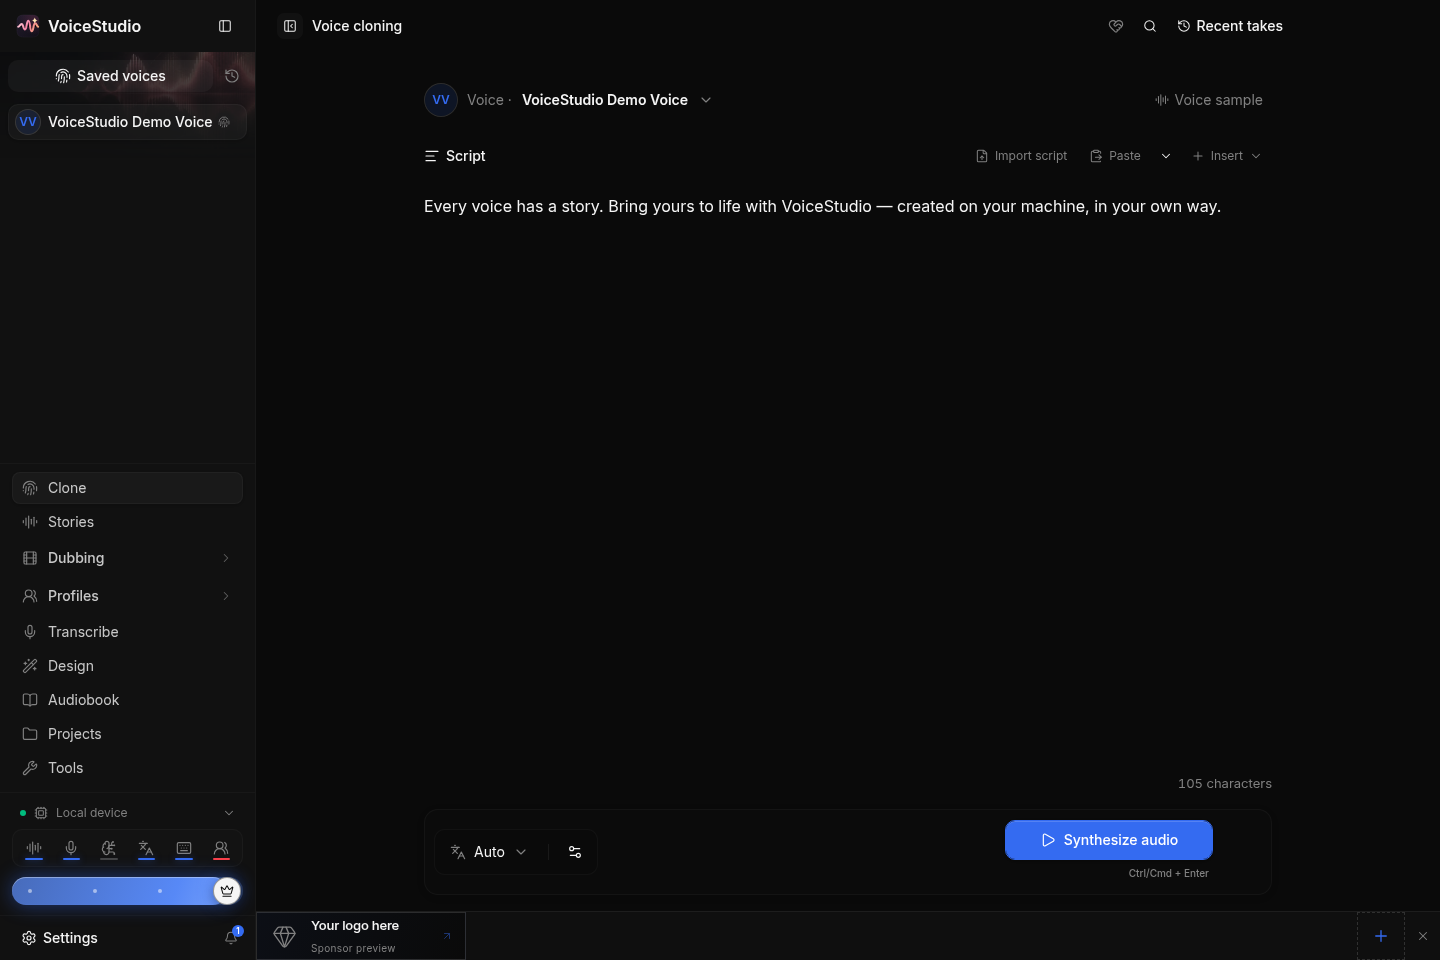
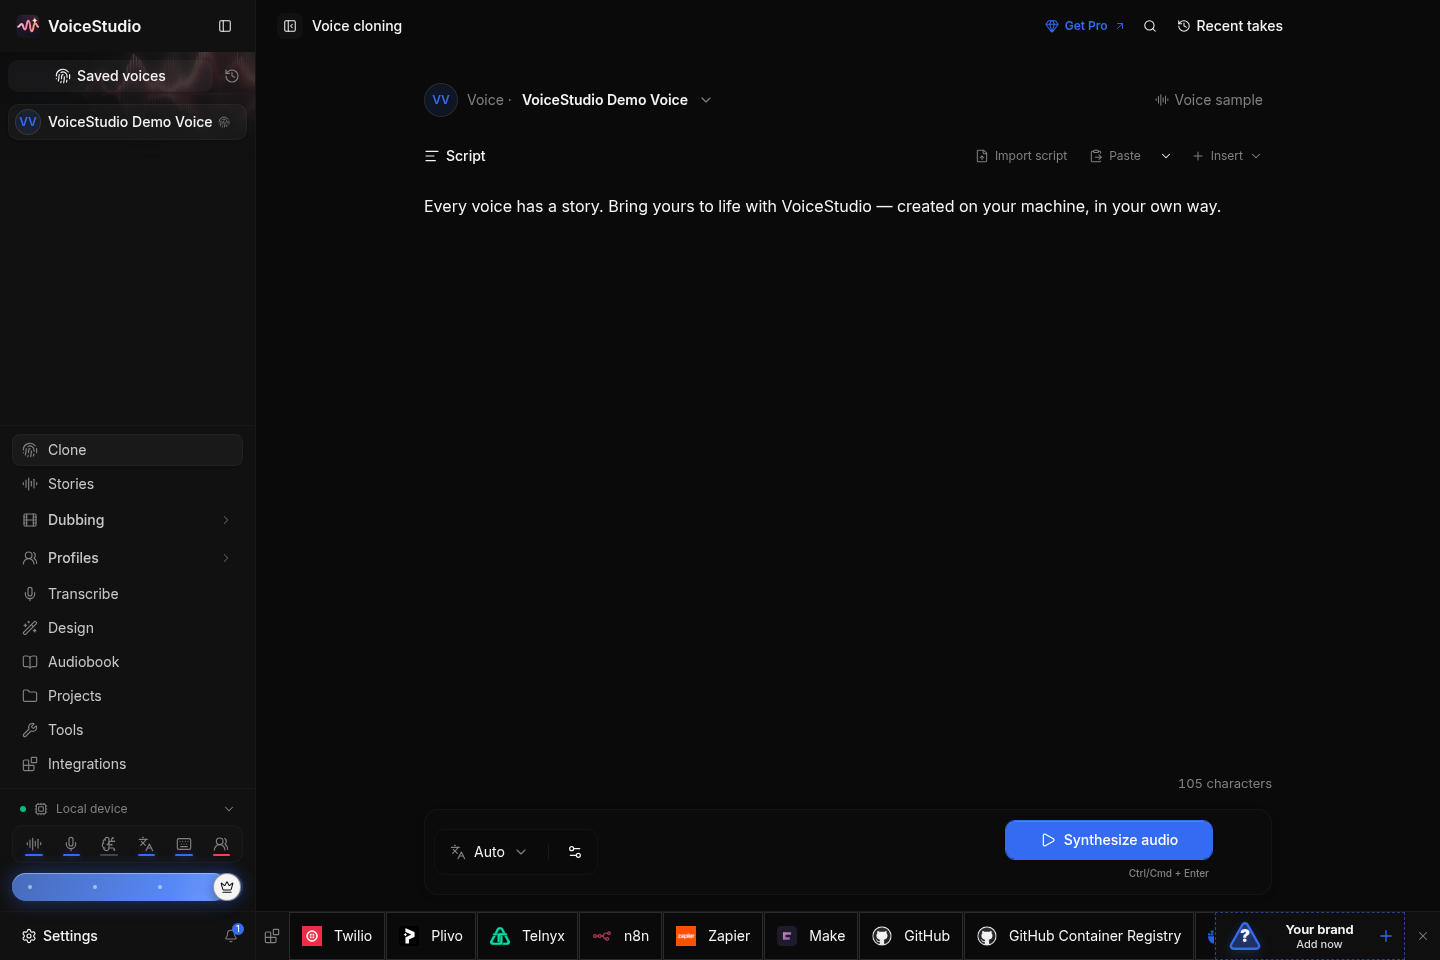
docs: refresh Electron showcase and packaging prep

diff --git a/electron/src/renderer/src/components/app-shell/sponsor-footer.css b/electron/src/renderer/src/components/app-shell/sponsor-footer.css
@@ -75,6 +75,9 @@
   color: var(--muted-foreground);
 }
 .sponsor-book-tile {
+  position: relative;
+  isolation: isolate;
+  overflow: hidden;
   width: 190px;
   min-width: 190px;
   border: 1px dashed color-mix(in srgb, var(--primary) 48%, var(--border));
@@ -82,9 +85,36 @@
   color: var(--muted-foreground);
   font-size: 12px;
 }
+.sponsor-book-tile::before {
+  position: absolute;
+  z-index: -1;
+  inset: -85% -45%;
+  content: '';
+  opacity: 0;
+  background:
+    radial-gradient(ellipse at 20% 40%, color-mix(in srgb, var(--primary) 30%, transparent), transparent 50%),
+    repeating-radial-gradient(ellipse at 0% 100%, transparent 0 12px, color-mix(in srgb, var(--primary) 22%, transparent) 13px 15px, transparent 16px 28px);
+  transform: translateX(-12%) rotate(-5deg);
+  transition: opacity 180ms ease;
+}
+.sponsor-book-tile > * { position: relative; z-index: 1; }
+.sponsor-book-tile:hover::before,
+.sponsor-book-tile:focus-visible::before {
+  opacity: 1;
+  animation: sponsor-book-waves 1.8s ease-in-out infinite alternate;
+}
+@keyframes sponsor-book-waves {
+  from { transform: translateX(-12%) rotate(-5deg) scale(1); }
+  to { transform: translateX(12%) rotate(5deg) scale(1.08); }
+}
+@media (prefers-reduced-motion: reduce) {
+  .sponsor-book-tile::before { transition: none; }
+  .sponsor-book-tile:hover::before,
+  .sponsor-book-tile:focus-visible::before { animation: none; }
+}
 .sponsor-book-tile--combined {
   display: grid;
-  grid-template-columns: 28px minmax(0, 1fr) 15px;
+  grid-template-columns: 34px minmax(0, 1fr) 15px;
   justify-content: initial;
   gap: 8px;
   text-align: center;
@@ -94,15 +124,26 @@
   overflow: visible;
   display: grid;
   place-items: center;
-  width: 28px;
-  height: 28px;
-  flex: 0 0 28px;
+  width: 34px;
+  height: 34px;
+  flex: 0 0 34px;
   border: 0;
   border-radius: 0;
   background: transparent;
   color: var(--primary);
   filter: drop-shadow(0 3px 6px color-mix(in srgb, var(--primary) 25%, transparent));
   transition: transform 180ms ease, border-color 180ms ease, box-shadow 180ms ease;
+}
+.sponsor-book-mark::before {
+  position: absolute;
+  z-index: 0;
+  inset: 5px 4px 3px;
+  content: '';
+  clip-path: polygon(50% 0, 100% 100%, 0 100%);
+  background: radial-gradient(circle at 50% 42%, color-mix(in srgb, var(--primary) 58%, transparent), transparent 65%);
+  filter: blur(2px);
+  opacity: 0.9;
+  transition: opacity 180ms ease, transform 180ms ease;
 }
 .sponsor-book-mark::after {
   position: absolute;
@@ -115,10 +156,10 @@
 .sponsor-book-mark svg {
   position: relative;
   z-index: 1;
-  width: 28px;
-  height: 28px;
-  fill: color-mix(in srgb, var(--primary) 28%, var(--sidebar));
-  stroke-width: 1.4;
+  width: 34px;
+  height: 34px;
+  fill: color-mix(in srgb, var(--primary) 36%, var(--sidebar));
+  stroke-width: 1.7;
   transition: transform 180ms ease;
 }
 .sponsor-book-question {
@@ -128,17 +169,22 @@
   left: 50%;
   width: auto;
   color: var(--foreground);
-  font-size: 15px;
-  font-weight: 800;
+  font-size: 17px;
+  font-weight: 900;
   line-height: 1;
   transform: translate(-50%, -50%);
   text-align: center;
-  text-shadow: 0 1px 4px color-mix(in srgb, var(--background) 65%, transparent);
+  text-shadow: 0 0 5px color-mix(in srgb, var(--primary) 68%, transparent);
   transition: transform 180ms ease;
 }
 .sponsor-book-tile:hover .sponsor-book-mark {
   transform: translateY(-1px) rotate(-4deg) scale(1.04);
   filter: drop-shadow(0 5px 8px color-mix(in srgb, var(--primary) 40%, transparent));
+}
+.sponsor-book-tile:hover .sponsor-book-mark::before {
+  opacity: 1;
+  transform: scale(1.16);
+  animation: sponsor-mark-glow 900ms ease-in-out infinite alternate;
 }
 .sponsor-book-tile:hover .sponsor-book-mark::after {
   opacity: 1;
@@ -154,11 +200,16 @@
   from { transform: translateX(-70%); }
   to { transform: translateX(70%); }
 }
+@keyframes sponsor-mark-glow {
+  from { filter: blur(2px); opacity: 0.7; }
+  to { filter: blur(4px); opacity: 1; }
+}
 @media (prefers-reduced-motion: reduce) {
   .sponsor-book-mark,
   .sponsor-book-mark svg,
   .sponsor-book-question { transition: none; }
-  .sponsor-book-tile:hover .sponsor-book-mark::after { animation: none; }
+  .sponsor-book-tile:hover .sponsor-book-mark::after,
+  .sponsor-book-tile:hover .sponsor-book-mark::before { animation: none; }
 }
 .sponsor-book-copy {
   display: grid;

diff --git a/electron/src/renderer/src/features/integrations/integrations-page.css b/electron/src/renderer/src/features/integrations/integrations-page.css
@@ -17,7 +17,9 @@
   display: flex;
   align-items: center;
   gap: 18px;
+  min-height: 82px;
   margin: 4px 0 30px;
+  padding: 8px 0;
 }
 .integrations-hero-icon {
   display: grid;
@@ -41,10 +43,25 @@
   letter-spacing: -0.045em;
   line-height: 1.1;
 }
+.integrations-hero-copy {
+  display: grid;
+  min-width: 0;
+  gap: 4px;
+}
+.integrations-hero-title-row {
+  display: flex;
+  align-items: baseline;
+  flex-wrap: wrap;
+  gap: 6px 16px;
+}
 .integrations-hero p {
-  margin-top: 5px;
+  margin: 0;
   color: var(--muted-foreground);
   font-size: 13px;
+}
+.integrations-hero-notice {
+  font-size: 11px !important;
+  opacity: 0.75;
 }
 .integrations-featured {
   margin-bottom: 28px;
@@ -86,11 +103,26 @@
 }
 .integration-featured-card,
 .integration-card {
+  position: relative;
+  isolation: isolate;
+  overflow: hidden;
   cursor: pointer;
   border: 1px solid var(--border);
   background: color-mix(in srgb, var(--foreground) 2.5%, var(--background));
   color: var(--foreground);
   text-align: left;
+  transition: color 150ms, background-color 150ms, box-shadow 150ms, border-color 150ms, backdrop-filter 150ms;
+}
+.integration-featured-card::before,
+.integration-card::before {
+  position: absolute;
+  z-index: -1;
+  inset: 0;
+  content: '';
+  border-radius: inherit;
+  background: linear-gradient(90deg, rgb(255 255 255 / 7%), rgb(255 255 255 / 2%), transparent);
+  opacity: 0;
+  transition: opacity 150ms;
 }
 .integration-featured-card {
   display: flex;
@@ -191,8 +223,14 @@
 }
 .integration-card:hover,
 .integration-featured-card:hover {
-  border-color: var(--primary);
-  box-shadow: 0 8px 25px -18px var(--primary);
+  border-color: color-mix(in srgb, var(--sidebar-border) 70%, var(--primary));
+  background: color-mix(in srgb, var(--sidebar-accent) 65%, var(--background));
+  backdrop-filter: blur(18px);
+  box-shadow: inset 0 1px 0 rgb(255 255 255 / 9%), 0 6px 18px rgb(0 0 0 / 10%);
+}
+.integration-card:hover::before,
+.integration-featured-card:hover::before {
+  opacity: 1;
 }
 .integration-card:focus-visible,
 .integration-featured-card:focus-visible,

diff --git a/electron/src/renderer/src/components/app-shell/support-shortcut.tsx b/electron/src/renderer/src/components/app-shell/support-shortcut.tsx
@@ -2,6 +2,7 @@ import { Link } from '@tanstack/react-router';
 import { ArrowUpRightIcon, GemIcon } from 'lucide-react';
 import { useTranslation } from 'react-i18next';
 import { Tooltip, TooltipTrigger, TooltipContent } from '@/components/ui/tooltip';
+import './support-shortcut.css';
 
 export function SupportShortcut() {
   const { t } = useTranslation();
@@ -11,17 +12,17 @@ export function SupportShortcut() {
         render={
           <Link
             to="/settings/support"
-            aria-label={t('supportPlans.title')}
-            className="app-no-drag flex h-8 items-center gap-1.5 rounded-lg border border-primary/25 bg-primary/10 px-2.5 text-primary hover:border-primary/45 hover:bg-primary/15 focus-visible:outline-2 focus-visible:outline-primary motion-safe:transition-colors"
+            aria-label={t('supportPlans.get_pro')}
+            className="support-shortcut app-no-drag flex h-8 items-center gap-1.5 px-1.5 text-primary hover:text-foreground focus-visible:outline-2 focus-visible:outline-primary motion-safe:transition-colors"
           />
         }
       >
         <GemIcon aria-hidden="true" className="size-3.5" />
-        <span className="hidden text-xs font-semibold sm:inline">{t('supportPlans.pro')}</span>
+        <span className="hidden text-xs font-semibold sm:inline">{t('supportPlans.get_pro')}</span>
         <ArrowUpRightIcon aria-hidden="true" className="size-3" />
       </TooltipTrigger>
       <TooltipContent surface="theme" side="bottom">
-        {t('supportPlans.title')}
+        {t('supportPlans.get_pro')}
       </TooltipContent>
     </Tooltip>
   );

diff --git a/electron/src/renderer/src/components/app-shell/support-shortcut.css b/electron/src/renderer/src/components/app-shell/support-shortcut.css
@@ -1,0 +1,32 @@
+.support-shortcut {
+  position: relative;
+  isolation: isolate;
+  overflow: hidden;
+  border-radius: 8px;
+}
+.support-shortcut::before {
+  position: absolute;
+  z-index: -1;
+  inset: -85% -45%;
+  content: '';
+  opacity: 0;
+  background:
+    radial-gradient(ellipse at 20% 40%, color-mix(in srgb, var(--primary) 30%, transparent), transparent 50%),
+    repeating-radial-gradient(ellipse at 0% 100%, transparent 0 12px, color-mix(in srgb, var(--primary) 22%, transparent) 13px 15px, transparent 16px 28px);
+  transform: translateX(-12%) rotate(-5deg);
+  transition: opacity 180ms ease;
+}
+.support-shortcut:hover::before,
+.support-shortcut:focus-visible::before {
+  opacity: 1;
+  animation: support-shortcut-waves 1.8s ease-in-out infinite alternate;
+}
+@keyframes support-shortcut-waves {
+  from { transform: translateX(-12%) rotate(-5deg) scale(1); }
+  to { transform: translateX(12%) rotate(5deg) scale(1.08); }
+}
+@media (prefers-reduced-motion: reduce) {
+  .support-shortcut::before { transition: none; }
+  .support-shortcut:hover::before,
+  .support-shortcut:focus-visible::before { animation: none; }
+}

diff --git a/electron/src/renderer/src/features/integrations/integrations-page.tsx b/electron/src/renderer/src/features/integrations/integrations-page.tsx
@@ -66,10 +66,12 @@ export function IntegrationsPage() {
           <span className="integrations-hero-icon">
             <BlocksIcon aria-hidden="true" />
           </span>
-          <div>
-            <h2>{t('integrationCatalog.title')}</h2>
-            <p>{t('integrationCatalog.description')}</p>
-            <p>{t('directoryExamples.notice')}</p>
+          <div className="integrations-hero-copy">
+            <div className="integrations-hero-title-row">
+              <h2>{t('integrationCatalog.title')}</h2>
+              <p>{t('integrationCatalog.description')}</p>
+            </div>
+            <p className="integrations-hero-notice">{t('directoryExamples.notice')}</p>
           </div>
         </header>
 

diff --git a/README.md b/README.md
@@ -1,9 +1,10 @@
 <div align="center">
   <img src="docs/logo.png" alt="VoiceStudio" width="88" />
   <h1>VoiceStudio</h1>
-  <p><strong>Your voices. Your stories. Your machine.</strong></p>
+  <p><strong>Open source voice cloning and workflow engine. Build local.</strong></p>
   <p>Clone voices, dub videos, dictate, and create audiobooks with local AI.</p>
   <p>
+    <a href="https://voicestudio.sh/?utm_source=github&utm_medium=readme&utm_campaign=project">Website</a> ·
     <a href="https://github.com/debpalash/VoiceStudio/releases/latest">Download</a> ·
     <a href="#get-started">Get started</a> ·
     <a href="#documentation">Docs</a> ·
@@ -19,7 +20,7 @@
 
 ![A tour of the Electron app: voice cloning, voice design, dubbing, and model management](docs/media/electron/voicestudio.gif)
 
-<p align="center"><sub>The new Electron desktop UI, captured from this branch with the bundled demo voice. Release builds may look different.</sub></p>
+<p align="center"><sub>Captured from the running Electron preview with the bundled demo voice. Published installers may look different.</sub></p>
 
 ## Create with VoiceStudio
 
@@ -39,6 +40,11 @@ Local workflows run on your hardware. Remote services are optional; usage analyt
     <td><img src="docs/media/electron/dubbing.png" alt="Electron video dubbing workspace" width="100%" /></td>
   </tr>
   <tr><td align="center">Voice cloning</td><td align="center">Video dubbing</td></tr>
+  <tr>
+    <td><img src="docs/media/electron/voice-design.png" alt="Describe a voice in the Electron voice design workspace" width="100%" /></td>
+    <td><img src="docs/media/electron/models.png" alt="Install and manage local speech models" width="100%" /></td>
+  </tr>
+  <tr><td align="center">Voice design</td><td align="center">Local models</td></tr>
 </table>
 
 ## Get started
@@ -75,6 +81,8 @@ Agent skills: `npx skills add debpalash/VoiceStudio`
 ## Support VoiceStudio
 
 [Ko-fi](https://ko-fi.com/debpalash) · [PayPal](https://paypal.me/palashCoder) · [Sponsor the project](SPONSORS.md) · [Partnerships](mailto:partner@voicestudio.sh)
+
+**Put your brand where people build with voice.** Explore paid placements in the app footer, integrations directory, documentation, and README. [Apply to partner](https://forms.gle/2PYCvd39hbwijzX37) or [email us](mailto:partner@voicestudio.sh).
 
 ## License & responsible use
 

diff --git a/README_CN.md b/README_CN.md
@@ -1,7 +1,7 @@
 <div align="center">
   <img src="docs/logo.png" alt="VoiceStudio" width="88" />
   <h1>VoiceStudio</h1>
-  <p><strong>你的声音，你的故事，在你的电脑上创作。</strong></p>
+  <p><strong>开源声音克隆与工作流引擎。在本地构建。</strong></p>
   <p>使用本地 AI 克隆声音、翻译配音、语音听写和制作有声书。</p>
   <p>
     <a href="https://github.com/debpalash/VoiceStudio/releases/latest">下载</a> ·
@@ -32,6 +32,11 @@
     <td><img src="docs/media/electron/dubbing.png" alt="Electron 视频配音工作区" width="100%" /></td>
   </tr>
   <tr><td align="center">声音克隆</td><td align="center">视频配音</td></tr>
+  <tr>
+    <td><img src="docs/media/electron/voice-design.png" alt="Electron 声音设计工作区" width="100%" /></td>
+    <td><img src="docs/media/electron/models.png" alt="本地语音模型管理" width="100%" /></td>
+  </tr>
+  <tr><td align="center">声音设计</td><td align="center">本地模型</td></tr>
 </table>
 
 ## 开始使用
@@ -68,6 +73,8 @@ bun run dev
 ## 支持 VoiceStudio
 
 [Ko-fi](https://ko-fi.com/debpalash) · [PayPal](https://paypal.me/palashCoder) · [赞助项目](SPONSORS.md) · [商务合作](mailto:partner@voicestudio.sh)
+
+**让语音应用开发者看到你的品牌。** 了解应用底部栏、集成目录、文档和 README 的付费展示合作。[申请合作](https://forms.gle/2PYCvd39hbwijzX37)或[发送邮件](mailto:partner@voicestudio.sh)。
 
 ## 许可与负责任使用
 
